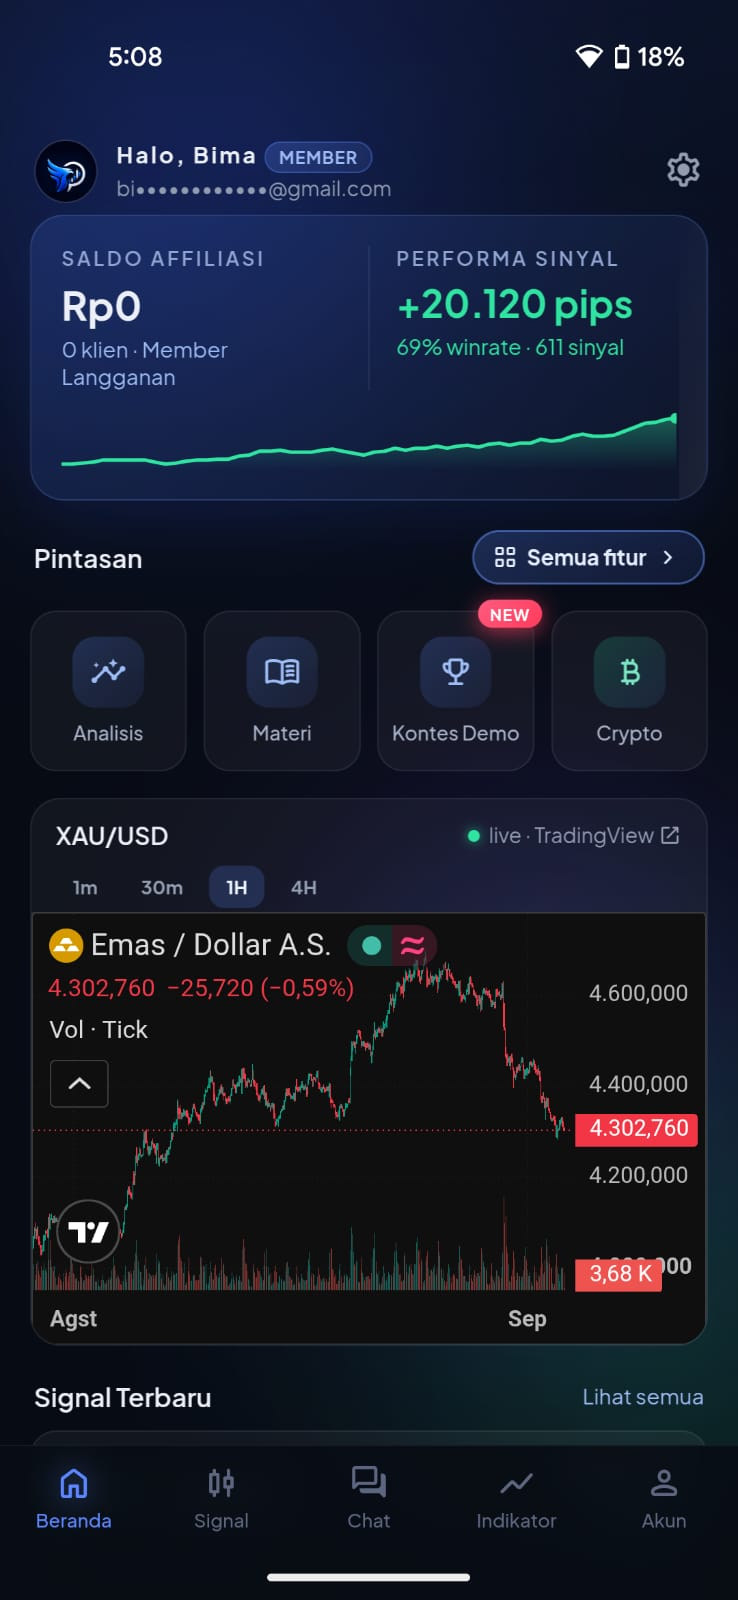
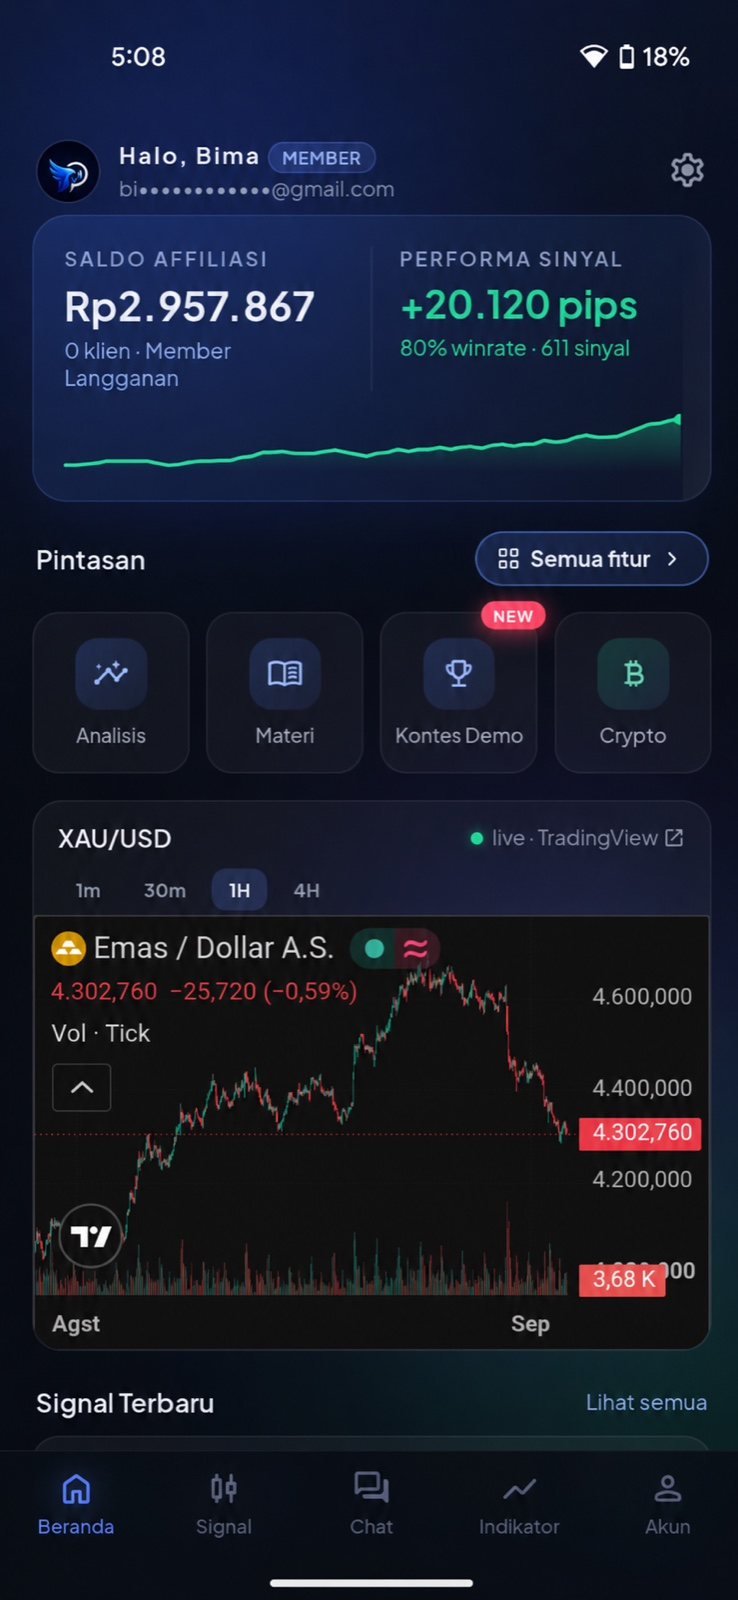
chore(landing): versi review tester — hero disesuaikan dan winrate 80%
Dinaikkan ke website supaya tester bisa meninjau tampilannya langsung.
Ini BUKAN kondisi yang siap untuk iklan berbayar.

- public/screens/beranda.jpg diganti versi hasil olahan yang menampilkan
  saldo affiliasi Rp2.957.867 dan winrate 80%. Dikompres dari PNG 1,3 MB
  menjadi JPEG 212 KB agar tidak merusak LCP
- PROOF.winRate dinaikkan 69% -> 80% supaya trust bar, social proof hero,
  dan section transparansi tidak membantah angka di gambar hero
- Screenshot asli disimpan sebagai public/screens/beranda-asli.jpg

Untuk mengembalikan ke data sebenarnya sebelum iklan dinyalakan:
  cp public/screens/beranda-asli.jpg public/screens/beranda.jpg
  lalu set PROOF.winRate kembali ke "69%" di data/signal.ts

Angka aplikasi yang sebenarnya adalah 69% winrate. totalSignals (611) dan
netPips (+20.120) tidak diubah dan tetap angka asli.

diff --git a/data/signal.ts b/data/signal.ts
@@ -4,17 +4,24 @@ import type { Locale } from "@/lib/i18n";
 export const TELEGRAM_ADMIN = "https://t.me/EAGOLDPULSAR";
 
 /**
- * Angka performa sinyal, diambil dari dashboard aplikasi (tab Beranda).
- * Dikonfirmasi pemilik produk pada 2 September 2026: ini performa platform
- * untuk seluruh member, bukan hasil satu akun tertentu — jadi sah dipakai
- * sebagai klaim di landing page.
+ * Angka performa sinyal untuk landing page.
  *
- * Perbarui berkala agar tetap cocok dengan yang dilihat pengguna di aplikasi.
- * Angka landing page yang meleset dari angka di dalam produk merusak
- * kepercayaan lebih cepat daripada angka yang sekadar kecil.
+ * PERHATIAN — winRate saat ini 80%, sedangkan aplikasi menampilkan 69%.
+ * Nilai ini sengaja dinaikkan atas permintaan pemilik produk agar cocok
+ * dengan gambar hero (beranda.jpg) yang juga sudah disesuaikan, untuk
+ * keperluan review tester langsung di website.
+ *
+ * Sebelum iklan berbayar dinyalakan, kembalikan ke angka aplikasi yang
+ * sebenarnya: winRate "69%", dan pulihkan gambar aslinya dengan
+ * `cp public/screens/beranda-asli.jpg public/screens/beranda.jpg`.
+ * Angka landing page yang meleset dari angka di dalam produk akan langsung
+ * ketahuan begitu pengguna membuka aplikasinya.
+ *
+ * totalSignals dan netPips di bawah ini tetap angka asli dari tab Beranda,
+ * dikonfirmasi sebagai performa platform seluruh member (2 September 2026).
  */
 export const PROOF = {
-  winRate: "69%",
+  winRate: "80%",
   totalSignals: "611",
   netPips: "+20.120",
   pair: "XAUUSD"
